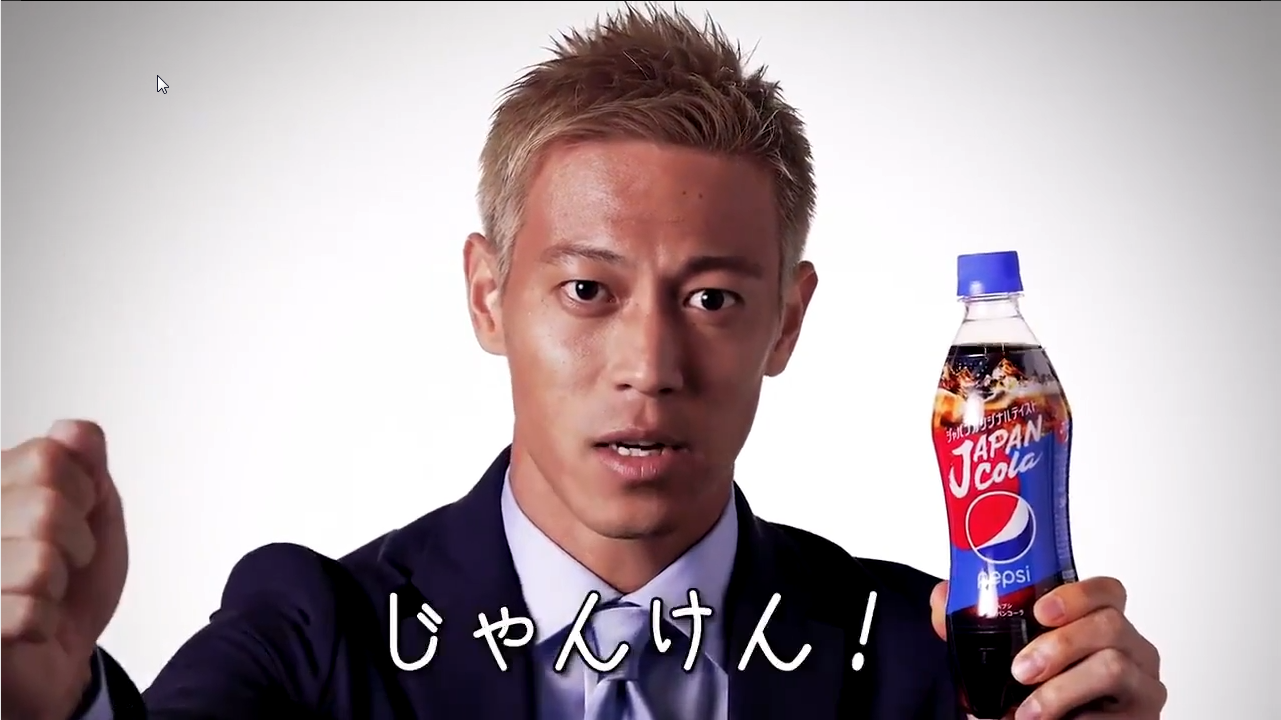
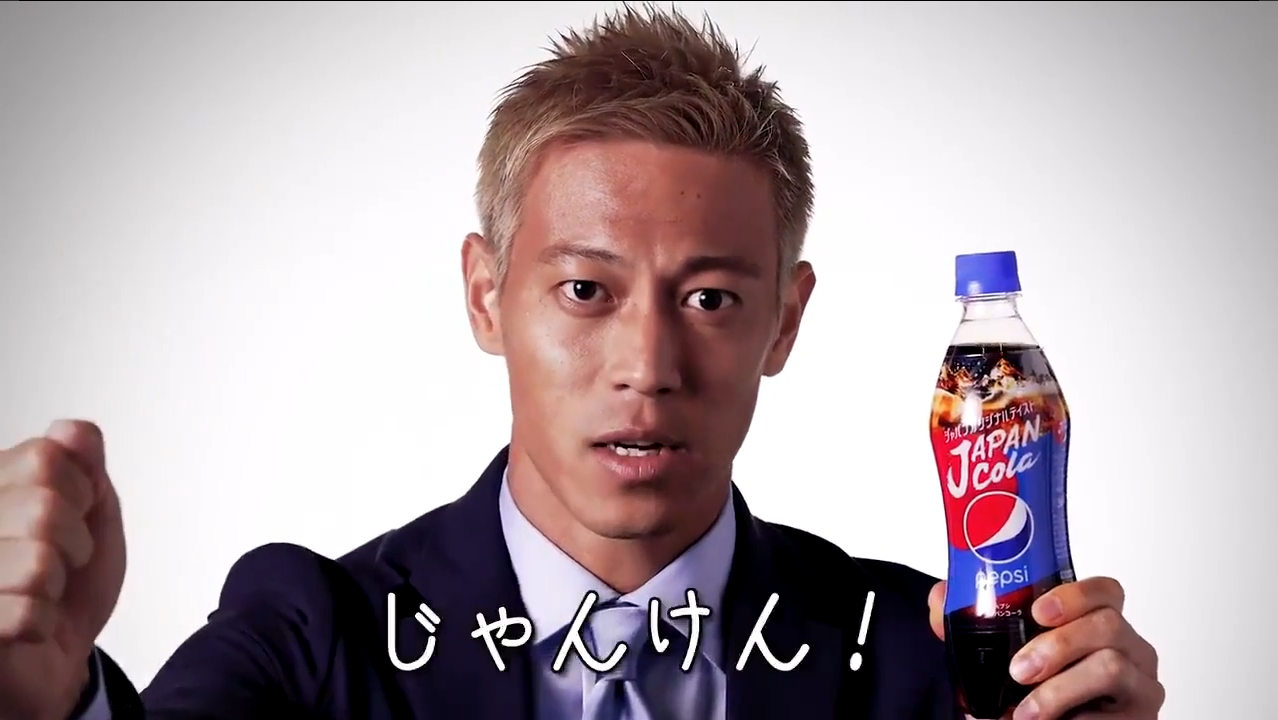
画像差し替え

diff --git a/README.md b/README.md
@@ -1,24 +1,1 @@
-# README
-
-This README would normally document whatever steps are necessary to get the
-application up and running.
-
-Things you may want to cover:
-
-* Ruby version
-
-* System dependencies
-
-* Configuration
-
-* Database creation
-
-* Database initialization
-
-* How to run the test suite
-
-* Services (job queues, cache servers, search engines, etc.)
-
-* Deployment instructions
-
-* ...
+# 本田とじゃんけん
